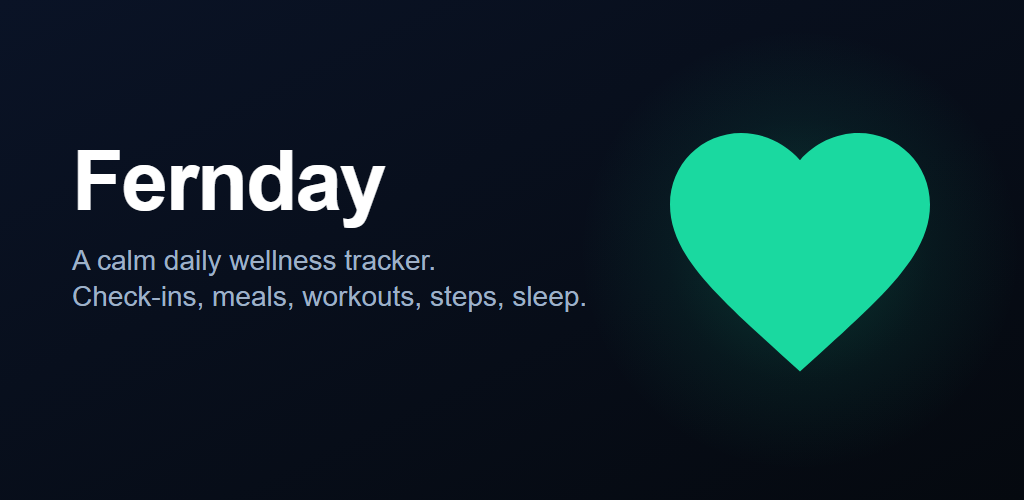
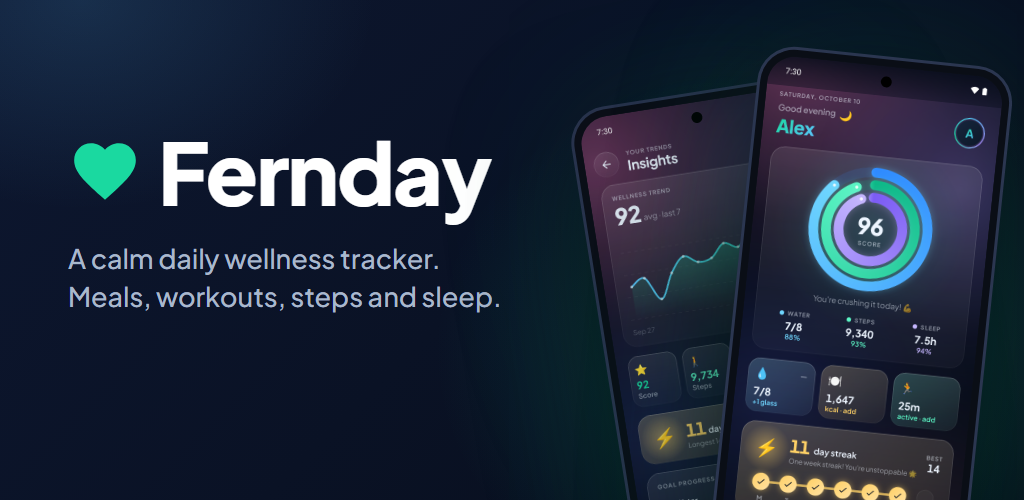
New store screenshots and feature graphic for Fernday
Eight 1080x1920 screenshots, each a headline over a real app screen in a
phone frame: score, check-in, food, food search, workouts, the player,
records and insights. The feature graphic now shows the wordmark next
to two phones. Both use the app's own navy, green and font, and are
rendered by render-screenshots.js with headless Chrome from emulator
captures with demo data.

The old screenshots (old 5-tab layout, a real name) and the feature
graphic's SVG source are removed; docs/ASSETS.md describes how to
capture and render the set, and the rules it follows.

diff --git a/docs/store-assets/render-screenshots.js b/docs/store-assets/render-screenshots.js
@@ -1,0 +1,143 @@
+// Renders the Play Store phone screenshots (1080x1920) and the feature
+// graphic (1024x500): a headline over the app screen in a phone frame, on
+// Fernday's navy and green. Uses headless Chrome, so no npm install.
+//
+// Run:
+//   node docs/store-assets/render-screenshots.js <raw-dir>
+// <raw-dir> holds 1080x2400 captures named after SLIDES[].raw (see
+// docs/ASSETS.md for how they were taken). Output:
+//   docs/store-assets/screenshots/NN_<name>.png
+//   docs/store-assets/feature-1024x500.png
+// CHROME=<path to chrome.exe> overrides the default install path.
+
+const fs = require("fs");
+const os = require("os");
+const path = require("path");
+const { execFileSync } = require("child_process");
+
+const CHROME = process.env.CHROME || "C:/Program Files/Google/Chrome/Application/chrome.exe";
+const ROOT = path.resolve(__dirname, "..", "..");
+const FONT = path.join(ROOT, "app/src/main/assets/fonts/plus_jakarta_sans.ttf");
+const OUT = path.join(__dirname, "screenshots");
+const raw = process.argv[2];
+if (!raw) { console.error("usage: node render-screenshots.js <raw-dir>"); process.exit(1); }
+
+const fileUrl = (p) => "file:///" + path.resolve(p).replace(/\\/g, "/");
+
+// Order is the listing order. <em> marks the accent words.
+const SLIDES = [
+  { name: "score",       raw: "home.png",        brand: true,
+    title: "Your whole day in <em>one calm score</em>",
+    sub: "Water, steps, sleep, mood and food, together." },
+  { name: "checkin",     raw: "checkin.png",
+    title: "Check in each evening in <em>under a minute</em>",
+    sub: "Then see what every part of your day earned." },
+  { name: "food",        raw: "food.png",
+    title: "Log meals <em>your way</em>",
+    sub: "Quality tags, Nutri-Score and optional calories." },
+  { name: "food_search", raw: "food_search.png",
+    title: "Search, scan or <em>pick a favorite</em>",
+    sub: "Look up foods by name or barcode." },
+  { name: "workouts",    raw: "move.png",
+    title: "Workouts for <em>every level</em>",
+    sub: "10 ready-made routines, or build your own." },
+  { name: "player",      raw: "player.png",      full: true,   // the rest timer is at the bottom
+    title: "Train <em>set by set</em>",
+    sub: "Last time's numbers and a rest timer, right there." },
+  { name: "records",     raw: "records.png",
+    title: "Celebrate <em>new records</em>",
+    sub: "Heaviest lift, best 1-rep max, most reps, longest hold." },
+  { name: "insights",    raw: "insights.png",
+    title: "Watch your <em>trends grow</em>",
+    sub: "Weekly averages, goals and streaks." },
+];
+
+const HEART = `<svg viewBox="0 0 24 24" width="SIZE" height="SIZE"><path fill="#1AD9A0" d="M12 21.35l-1.45-1.32C5.4 15.36 2 12.28 2 8.5 2 5.42 4.42 3 7.5 3c1.74 0 3.41.81 4.5 2.09C13.09 3.81 14.76 3 16.5 3 19.58 3 22 5.42 22 8.5c0 3.78-3.4 6.86-8.55 11.54L12 21.35z"/></svg>`;
+
+const BASE_CSS = `
+  @font-face { font-family: Jakarta; src: url("${fileUrl(FONT)}"); font-weight: 200 800; }
+  html, body { margin: 0; overflow: hidden; background: #070D1A; font-family: Jakarta, sans-serif; }
+  em { font-style: normal; background: linear-gradient(90deg, #1AD9A0, #5EC4FF);
+       -webkit-background-clip: text; background-clip: text; color: transparent; }
+  .phone { position: absolute; background: #0A0E16; box-sizing: border-box;
+           box-shadow: 0 0 0 3px #2B3650, 0 40px 120px rgba(0,0,0,.6), 0 0 160px rgba(26,217,160,.16); }
+  .phone img { display: block; width: 100%; }
+  .hole { position: absolute; left: 50%; border-radius: 50%; background: #000; }
+`;
+
+function slideHtml(s) {
+  return `<!doctype html><html><head><meta charset="utf-8"><style>${BASE_CSS}
+  html, body { width: 1080px; height: 1920px; }
+  .bg { position: absolute; inset: 0; background:
+      radial-gradient(900px 760px at 50% 82%, rgba(26,217,160,.20), transparent 70%),
+      radial-gradient(700px 520px at 92% 6%, rgba(167,139,250,.20), transparent 70%),
+      radial-gradient(640px 520px at 4% 14%, rgba(94,196,255,.13), transparent 70%),
+      linear-gradient(180deg, #0D1730 0%, #070D1A 100%); }
+  .stage { position: absolute; top: ${s.brand ? 96 : 120}px; left: 0; right: 0;
+           display: flex; flex-direction: column; align-items: center; }
+  .top { padding: 0 70px; text-align: center; }
+  .brand { display: inline-flex; align-items: center; gap: 14px; font-weight: 800; font-size: 44px;
+           color: #fff; letter-spacing: -.5px; margin-bottom: 30px; }
+  h1 { margin: 0; font-weight: 800; font-size: 82px; line-height: 1.08; letter-spacing: -1.6px; color: #fff;
+       text-wrap: balance; }
+  p { margin: 26px 0 0; font-weight: 500; font-size: 38px; line-height: 1.3; color: #A9B8CC; text-wrap: balance; }
+  .stage .phone { position: relative; margin-top: 78px; width: 820px; flex: none;
+           border-radius: 96px; padding: 18px; }
+  .phone img { border-radius: 80px; }
+  .stage .phone.full { width: 640px; border-radius: 76px; padding: 14px; }
+  .phone.full img { border-radius: 64px; }
+  .phone.full .hole { top: 36px; width: 24px; height: 24px; margin-left: -12px; }
+  .hole { top: 46px; width: 30px; height: 30px; margin-left: -15px; box-shadow: 0 0 0 4px #10141D; }
+  </style></head><body>
+  <div class="bg"></div>
+  <div class="stage">
+    <div class="top">
+      ${s.brand ? `<div class="brand">${HEART.replace(/SIZE/g, "52")}Fernday</div>` : ""}
+      <h1>${s.title}</h1><p>${s.sub}</p>
+    </div>
+    <div class="phone${s.full ? " full" : ""}"><img src="${fileUrl(path.join(raw, s.raw))}"><div class="hole"></div></div>
+  </div>
+  </body></html>`;
+}
+
+function featureHtml() {
+  return `<!doctype html><html><head><meta charset="utf-8"><style>${BASE_CSS}
+  html, body { width: 1024px; height: 500px; }
+  .bg { position: absolute; inset: 0; background:
+      radial-gradient(520px 420px at 78% 70%, rgba(26,217,160,.22), transparent 70%),
+      radial-gradient(420px 300px at 8% 0%, rgba(94,196,255,.14), transparent 70%),
+      linear-gradient(135deg, #0D1730 0%, #070D1A 100%); }
+  .text { position: absolute; left: 68px; top: 128px; width: 520px; }
+  .brand { display: flex; align-items: center; gap: 16px; font-weight: 800; font-size: 86px;
+           color: #fff; letter-spacing: -2px; line-height: 1; }
+  p { margin: 26px 0 0; font-weight: 500; font-size: 27px; line-height: 1.4; color: #A9B8CC; }
+  .phone { width: 250px; border-radius: 34px; padding: 7px; }
+  .phone img { border-radius: 28px; }
+  .hole { top: 17px; width: 11px; height: 11px; margin-left: -5.5px; }
+  .back  { left: 610px; top: 92px;  transform: rotate(-9deg); opacity: .9; }
+  .front { left: 735px; top: 58px;  transform: rotate(6deg); }
+  </style></head><body>
+  <div class="bg"></div>
+  <div class="text">
+    <div class="brand">${HEART.replace(/SIZE/g, "74")}Fernday</div>
+    <p>A calm daily wellness tracker.<br>Meals, workouts, steps and sleep.</p>
+  </div>
+  <div class="phone back"><img src="${fileUrl(path.join(raw, "insights.png"))}"><div class="hole"></div></div>
+  <div class="phone front"><img src="${fileUrl(path.join(raw, "home.png"))}"><div class="hole"></div></div>
+  </body></html>`;
+}
+
+function render(html, out, w, h) {
+  const tmp = path.join(os.tmpdir(), `fernday-${path.basename(out, ".png")}.html`);
+  fs.writeFileSync(tmp, html);
+  execFileSync(CHROME, [
+    "--headless=new", "--disable-gpu", "--hide-scrollbars", "--force-device-scale-factor=1",
+    "--allow-file-access-from-files", `--window-size=${w},${h}`, `--screenshot=${out}`, fileUrl(tmp),
+  ], { stdio: "ignore" });
+  console.log(`✔ ${path.relative(ROOT, out)} (${w}x${h})`);
+}
+
+fs.mkdirSync(OUT, { recursive: true });
+SLIDES.forEach((s, i) =>
+  render(slideHtml(s), path.join(OUT, `${String(i + 1).padStart(2, "0")}_${s.name}.png`), 1080, 1920));
+render(featureHtml(), path.join(__dirname, "feature-1024x500.png"), 1024, 500);

diff --git a/docs/store-assets/render.js b/docs/store-assets/render.js
@@ -1,9 +1,9 @@
-// Renders the Play Store assets from their SVG sources.
+// Renders the Play Store app icon from its SVG source. The feature graphic
+// and screenshots come from render-screenshots.js.
 // Run:
 //   cd docs/store-assets && npm install sharp && node render.js
 // Output:
 //   docs/store-assets/icon-512.png         (Play Store app icon)
-//   docs/store-assets/feature-1024x500.png (Play Store feature graphic)
 
 const fs = require("fs");
 const path = require("path");
@@ -20,7 +20,6 @@ async function render(svgFile, pngFile, width, height) {
 
 (async () => {
   await render("icon-512.svg",          "icon-512.png",          512,  512);
-  await render("feature-1024x500.svg",  "feature-1024x500.png",  1024, 500);
 })().catch((e) => {
   console.error(e);
   process.exit(1);

diff --git a/docs/ASSETS.md b/docs/ASSETS.md
@@ -1,80 +1,89 @@
 # Fernday — Store assets
 
-Source SVGs and rendered PNGs for the Play Store listing.
+Everything uploaded to the Play Store listing, and how to rebuild it.
 
 ## Files
 
-| File                            | Purpose                       | Spec                          |
-|---------------------------------|-------------------------------|-------------------------------|
-| `store-assets/icon-512.svg`     | App icon source               | —                             |
-| `store-assets/icon-512.png`     | **Upload to Play**            | 512 × 512, PNG, 20 KB         |
-| `store-assets/feature-1024x500.svg` | Feature graphic source    | —                             |
-| `store-assets/feature-1024x500.png` | **Upload to Play**        | 1024 × 500, PNG, 55 KB        |
+| File                                   | Upload to Play as        | Spec                     |
+|----------------------------------------|--------------------------|--------------------------|
+| `store-assets/icon-512.png`            | App icon                 | 512 × 512 PNG            |
+| `store-assets/feature-1024x500.png`    | Feature graphic          | 1024 × 500 PNG           |
+| `store-assets/screenshots/01_score.png` … `08_insights.png` | Phone screenshots, in this order | 1080 × 1920 PNG (9:16) |
 
-## Re-rendering
+Sources: `icon-512.svg` (rendered by `render.js`, needs `sharp`), and
+`render-screenshots.js`, which renders the screenshots and the feature
+graphic with headless Chrome from raw app captures.
 
-If you edit the SVGs:
+## Screenshots and feature graphic
+
+Each screenshot is a headline and a subline over a real app screen in a
+phone frame, on the app's own navy and green with the Plus Jakarta Sans
+font from `app/src/main/assets/fonts`. Headlines and their order live in
+`SLIDES` in `render-screenshots.js`.
+
+**Rules (Play policy, learned the hard way):**
+- Only Fernday's own name, colours and screens. No other app's look, and
+  never the old name (see `PLAY_CONSOLE.md` §17).
+- No third-party brand names on screen. A live Open Food Facts search shows
+  brands (e.g. yogurt makers), so the food slide uses generic foods.
+- Demo data only: the user is the fictional "Alex"; never a real person.
+- Captions must describe what the screen shows; no "#1", "best", awards or
+  prices.
+
+### 1. Capture the raw screens (emulator, debug build)
+
+The 2026-10 set was taken on the `healthify35` AVD (1080 × 2400, Android 15):
+
+1. `adb root`, then set a fixed time so the week charts are full:
+   `adb shell settings put global auto_time 0` and
+   `adb shell date 101019302026.00` (Saturday 19:30).
+2. `./gradlew :app:installDebug`, `adb shell pm clear com.DeltaPKR.Healthify`,
+   onboard as "Alex", decline Health Connect, then force-stop the app.
+3. Seed demo history with `run-as com.DeltaPKR.Healthify sqlite3
+   databases/healthify.db`: two weeks of `check_ins` (+ matching
+   `water_logs`), a few `workout_sessions`, last Thursday's "Gym Upper
+   Body" with its `workout_sets` (the baseline today's records beat),
+   today's `meal_entries`, and some generic `food_items` with `useCount > 0`
+   for the Recent list. Set `users.countCalories = 1` and the streak
+   fields.
+4. Clean status bar:
+   ```bash
+   adb shell settings put global sysui_demo_allowed 1
+   adb shell am broadcast -a com.android.systemui.demo -e command enter
+   adb shell am broadcast -a com.android.systemui.demo -e command clock -e hhmm 1930
+   adb shell am broadcast -a com.android.systemui.demo -e command battery -e level 100 -e plugged false
+   adb shell am broadcast -a com.android.systemui.demo -e command network -e wifi show -e level 4 -e fully true
+   adb shell am broadcast -a com.android.systemui.demo -e command network -e mobile hide
+   adb shell am broadcast -a com.android.systemui.demo -e command notifications -e visible false
+   ```
+5. Use the app normally and capture each screen with
+   `adb exec-out screencap -p > <raw-dir>/<name>.png`:
+
+   | Raw file          | Screen                                                  |
+   |-------------------|---------------------------------------------------------|
+   | `home.png`        | Home after the check-in                                 |
+   | `checkin.png`     | The check-in celebration                                |
+   | `food.png`        | Food tab, calories on                                   |
+   | `food_search.png` | Add food → Recent list (generic foods)                  |
+   | `move.png`        | Move tab after the workout                              |
+   | `player.png`      | Player with a record set ticked and the rest timer      |
+   | `records.png`     | The finished workout's summary (offer card dismissed)   |
+   | `insights.png`    | Insights                                                |
+
+### 2. Render
 
 ```bash
-cd docs/store-assets
-node render.js
+node docs/store-assets/render-screenshots.js <raw-dir>
 ```
 
-`sharp` is pinned in `package.json`; the first run installs it.
-
-## Screenshots
-
-Play requires **≥ 2 phone screenshots**. They must come from the real app,
-so capture them from the release build running on a connected device.
-
-```bash
-# 1. From repo root, install the AAB on the connected device:
-"$ANDROID_HOME/cmdline-tools/latest/bin/bundletool" build-apks \
-  --bundle=app/build/outputs/bundle/release/app-release.aab \
-  --output=/tmp/healthify.apks \
-  --connected-device \
-  --ks=$HOME/.android/keystores/healthify-release.jks \
-  --ks-key-alias=healthify
-
-"$ANDROID_HOME/cmdline-tools/latest/bin/bundletool" install-apks \
-  --apks=/tmp/healthify.apks
-
-# 2. Launch + capture each screen with adb:
-adb shell am start -n com.DeltaPKR.Healthify/.MainActivity
-sleep 3
-
-mkdir -p docs/store-assets/screenshots
-adb exec-out screencap -p > docs/store-assets/screenshots/01_dashboard.png
-# manually navigate to each tab, then run:
-adb exec-out screencap -p > docs/store-assets/screenshots/02_checkin.png
-adb exec-out screencap -p > docs/store-assets/screenshots/03_insights.png
-adb exec-out screencap -p > docs/store-assets/screenshots/04_reminders.png
-adb exec-out screencap -p > docs/store-assets/screenshots/05_profile.png
-```
-
-### Tips for good store screenshots
-
-- Use a device with a clean status bar (no carrier name, full battery,
-  signal strength visible). The Pixel 8 emulator with
-  `adb shell settings put global sysui_demo_allowed 1` then
-  `adb shell am broadcast -a com.android.systemui.demo -e command enter`
-  + further demo-mode commands gives a clean bar.
-- Don't crop status bars — Play prefers the full device chrome.
-- Long side must be 320–3840 px. A 1080×2400 Pixel screen is fine as-is.
-- First two screenshots show up in search results — make them count.
-  Recommended order:
-  1. Dashboard with steps + sleep + HR populated.
-  2. Daily check-in mid-entry.
-  3. Insights weekly mood strip.
-  4. Reminders list with the wheel time-picker visible.
-  5. Profile / streak.
+Writes the 8 screenshots and `feature-1024x500.png`. Set `CHROME` if
+Chrome isn't at the default Windows path.
 
 ## Design notes
 
-- Background: same `#070D1A` ↔ `#111E30` radial gradient as the in-app
-  theme — keeps icon, splash, and dashboard visually identical.
-- Accent: Fernday green `#1AD9A0` (matches `Theme.Healthify` accent).
-- Heart silhouette is the Material `Filled.Favorite` path; reused in
-  `mipmap-anydpi-v26/ic_launcher.xml` and the splash branding.
-- Feature graphic positions the heart at x=800/1024 — survives Play's
-  per-device crop which trims roughly the right 20–30 % on small surfaces.
+- Background: the app's navy (`#070D1A` → `#0D1730`) with soft green,
+  sky and lavender glows; accent words use the green → sky gradient.
+- The heart is the Material `Filled.Favorite` path, as in the launcher
+  icon and splash.
+- The feature graphic keeps the wordmark on the left; Play may crop the
+  right edge on small surfaces, which only clips the phones.

diff --git a/docs/STORE_LISTING.md b/docs/STORE_LISTING.md
@@ -158,50 +158,15 @@ you have a health concern, see a clinician.
 
 ## Visual assets — what Play requires
 
-| Asset                    | Spec                         | Status                                   |
-|--------------------------|------------------------------|------------------------------------------|
-| App icon                 | 512 × 512 px, 32-bit PNG, ≤1 MB | ⚠ Render needed — see `docs/ASSETS.md`  |
-| Feature graphic          | 1024 × 500 px, JPEG/PNG, ≤15 MB | ⚠ Render needed — see `docs/ASSETS.md`  |
-| Phone screenshots        | min 2, max 8; 16:9 or 9:16; 320–3840 px on the long side | ⚠ Capture from running release build    |
-| 7-inch tablet screenshots| Optional; min 1, max 8       | Skip (phone-first app)                   |
-| 10-inch tablet screenshots| Optional; min 1, max 8      | Skip                                     |
-| TV banner                | Skip (no TV target)          |                                          |
-| Wear OS screenshots      | Skip (no Wear target)        |                                          |
+| Asset             | Spec                                   | File                                                 |
+|-------------------|----------------------------------------|------------------------------------------------------|
+| App icon          | 512 × 512 PNG, ≤ 1 MB                  | `docs/store-assets/icon-512.png`                     |
+| Feature graphic   | 1024 × 500 PNG/JPEG                    | `docs/store-assets/feature-1024x500.png`             |
+| Phone screenshots | 2–8, 9:16, 320–3840 px on the long side | `docs/store-assets/screenshots/01_score.png` … `08_insights.png`, in that order |
+| Tablet, TV, Wear  | Skip (phone-first app)                 |                                                      |
 
-See `docs/ASSETS.md` for source SVGs + render instructions.
-
----
-
-## Screenshot capture script (when you have a device connected)
-
-```bash
-# 1. Install the release AAB to a connected device:
-"$ANDROID_HOME/cmdline-tools/latest/bin/bundletool" build-apks \
-  --bundle=app/build/outputs/bundle/release/app-release.aab \
-  --output=/tmp/healthify.apks \
-  --connected-device \
-  --ks=$HOME/.android/keystores/healthify-release.jks \
-  --ks-key-alias=healthify
-
-"$ANDROID_HOME/cmdline-tools/latest/bin/bundletool" install-apks \
-  --apks=/tmp/healthify.apks
-
-# 2. Launch + capture each screen with adb:
-adb shell am start -n com.DeltaPKR.Healthify/.MainActivity
-adb exec-out screencap -p > screenshots/01_dashboard.png
-
-# repeat after navigating to each tab:
-#   01_dashboard.png         home with steps + sleep from Health Connect
-#   02_food.png              Food tab with a few meals logged
-#   03_food_search.png       a search or barcode result
-#   04_move.png              Move tab: workouts card and today's activities
-#   05_workout_player.png    the player mid-workout, rest timer showing
-#   06_workout_summary.png   a summary with a personal record
-#   07_check_in.png          mid check-in (mood + water + food)
-#   08_insights.png          wellness trend + weekly mood
-```
-
-You need 2–8 of these; Play shows them in this order.
+How they were made, and the rules they follow (no other brands, demo
+data only, never the old name): `docs/ASSETS.md`.
 
 ---
 

diff --git a/docs/PLAY_CONSOLE.md b/docs/PLAY_CONSOLE.md
@@ -596,9 +596,10 @@ again, hence 23.
 - [ ] Build the signed AAB for 1.4.2 (23); upload to Internal testing.
 - [ ] Main store listing: app name **Fernday: Daily Wellness**; short and
       full description from `STORE_LISTING.md`; the new feature graphic
-      `docs/store-assets/feature-1024x500.png`; replace **all** screenshots
-      with ones from 1.4.2 (nothing showing the old name, the old 5-tab
-      layout or a real person's name).
+      `docs/store-assets/feature-1024x500.png`; delete **all** old
+      screenshots and upload `docs/store-assets/screenshots/01_score.png` …
+      `08_insights.png` in that order (made from 1.4.2 with demo data; see
+      `ASSETS.md`).
 - [ ] Store settings → Store listing contact details: clear the website if
       it points at `deltapkr.github.io/Healthify/`.
 - [ ] Release notes without the old name.
